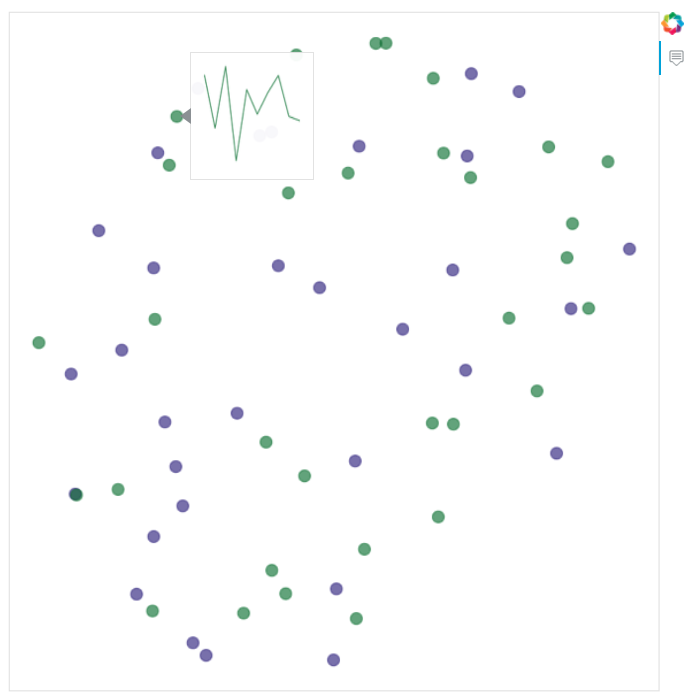
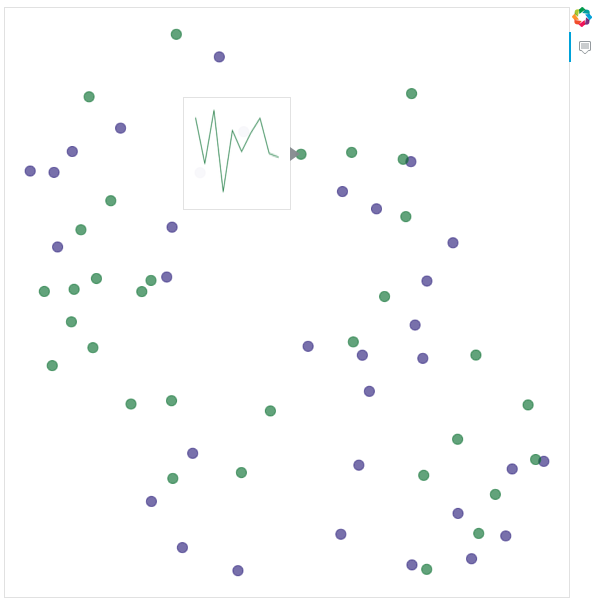
change reshape of filters

diff --git a/out/index.html b/out/index.html
@@ -1,0 +1,57 @@
+<!DOCTYPE html>
+<html lang="en">
+ <head>
+  <meta charset="utf-8"/>
+  <title>
+   Filter visualization
+  </title>
+  <script crossorigin="anonymous" integrity="sha384-kLr4fYcqcSpbuI95brIH3vnnYCquzzSxHPU6XGQCIkQRGJwhg0StNbj1eegrHs12" src="https://cdn.bokeh.org/bokeh/release/bokeh-2.1.1.min.js" type="text/javascript">
+  </script>
+  <script type="text/javascript">
+   Bokeh.set_log_level("info");
+  </script>
+ </head>
+ <body>
+  <div align="center" class="bk-root" data-root-id="1003" id="6f302ca4-0c07-4974-915f-ce7b8adbe291">
+  </div>
+  <script id="1153" type="application/json">
[1 lines of base64/hex data omitted]
+  </script>
+  <script type="text/javascript">
+   (function() {
+            var fn = function() {
+              Bokeh.safely(function() {
+                (function(root) {
+                  function embed_document(root) {
+                    
+                  var docs_json = document.getElementById('1153').textContent;
+                  var render_items = [{"docid":"97f9d7f2-eb51-4db9-a614-a6f7b5fe2888","root_ids":["1003"],"roots":{"1003":"6f302ca4-0c07-4974-915f-ce7b8adbe291"}}];
+                  root.Bokeh.embed.embed_items(docs_json, render_items);
+                
+                  }
+                  if (root.Bokeh !== undefined) {
+                    embed_document(root);
+                  } else {
+                    var attempts = 0;
+                    var timer = setInterval(function(root) {
+                      if (root.Bokeh !== undefined) {
+                        clearInterval(timer);
+                        embed_document(root);
+                      } else {
+                        attempts++;
+                        if (attempts > 100) {
+                          clearInterval(timer);
+                          console.log("Bokeh: ERROR: Unable to run BokehJS code because BokehJS library is missing");
+                        }
+                      }
+                    }, 10, root)
+                  }
+                })(window);
+              });
+            };
+            if (document.readyState != "loading") fn();
+            else document.addEventListener("DOMContentLoaded", fn);
+          })();
+  </script>
+ </body>
+</html>

diff --git a/src/filters1D.py b/src/filters1D.py
@@ -1,7 +1,7 @@
 import numpy as np
 import tensorflow as tf
 from .utils.utils import *
-from aeon.distances import dtw_distance
+from aeon.distances import dtw_pairwise_distance
 from sklearn.manifold import TSNE
 
 
@@ -46,7 +46,8 @@ def load_model_filters(model_path, layer_index):
 	layer = model.layers[layer_index]
 	if isinstance(layer, accepted_layers):
 		filters = layer.get_weights()[0]
-		filters = np.transpose(filters,(1,0,2))
+		filters = np.reshape(filters,(filters.shape[0],-1))
+		filters = np.swapaxes(np.reshape(filters,(filters.shape[0],-1)),axis1=0,axis2=1)
 		filters = znormalisation(filters)
 	else:
 		print('Layer ' + layer.name + ' is not a 1D convolution-based layer')
@@ -64,13 +65,7 @@ def compute_tsne_coordinates(filters):
 
 def compute_dtw_matrix(filters):
 
-	dtw_matrix = np.zeros((filters.shape[0],filters.shape[0]))
-	for i in range(filters.shape[0]):
-		for j in range(filters.shape[0]):
-			if i==j:
-				dtw_matrix[i,j]=0
-			else:
-				dtw_matrix[i,j]=dtw_distance(filters[i,:,:],filters[j,:,:])
+	dtw_matrix = dtw_pairwise_distance(filters)
 
 	return dtw_matrix
 
